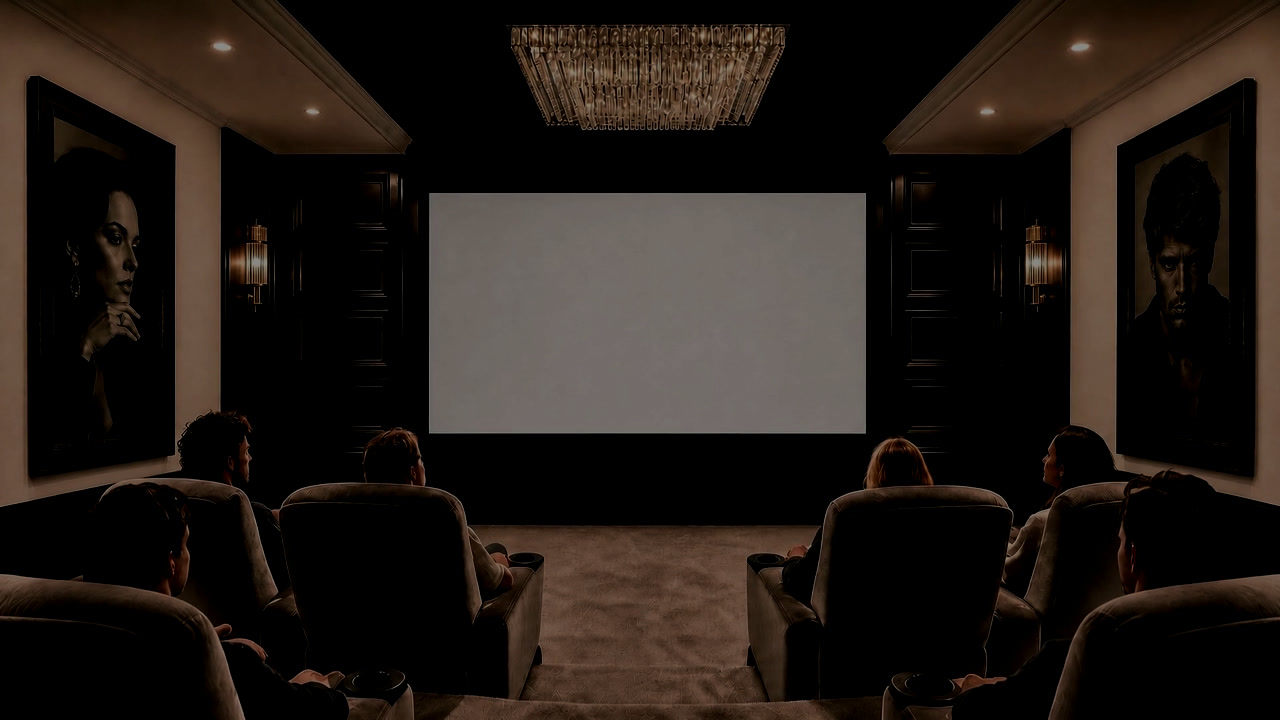
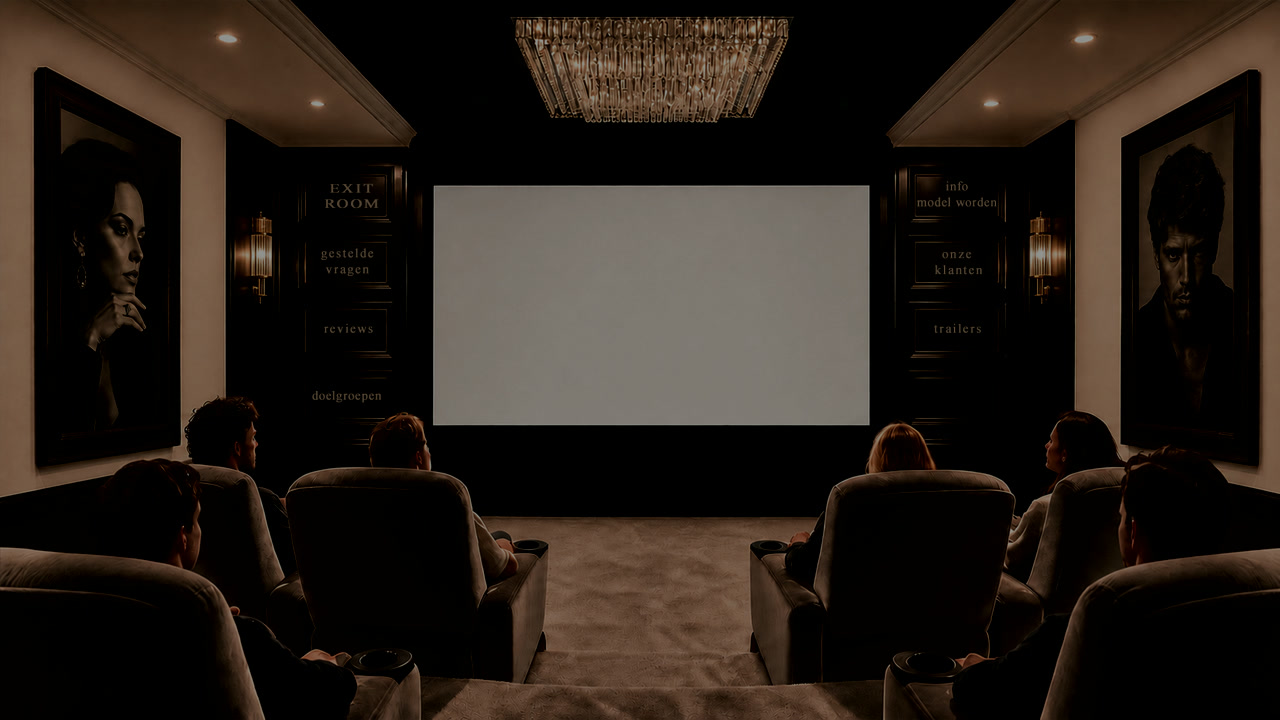
Infozaal: eigen afbeelding (bio.jpg) met de menuteksten erin; klikvlakken exact op de teksttegels gelegd.
- bio.jpg als infozaal-beeld (licht aan) plus een gedimde versie voor tijdens de trailer.
- Menuteksten zitten nu in de afbeelding zelf; de HTML-teksten zijn weg en vervangen door onzichtbare klikvlakken op de tegels (links: exit, gestelde vragen, reviews, doelgroepen; rechts: info model worden, onze klanten, trailers).
- Bioscoopscherm-vlak op de nieuwe afbeelding herrekend; mediaversie opgehoogd zodat de browser de nieuwe beelden laadt.

diff --git a/apps/web/src/components/BeginLiftExperience.tsx b/apps/web/src/components/BeginLiftExperience.tsx
@@ -27,7 +27,7 @@ const SHEET_BASE = process.env.NEXT_PUBLIC_BASE_PATH?.trim() || '';
  * versie van de bestanden, zodat de browser nooit een oude versie uit de
  * cache toont.
  */
-const MEDIA_V = '?v=2026-07-23b';
+const MEDIA_V = '?v=2026-07-23c';
 /** Film 30 — de lift in het onthaal, met vier ronde knoppen links. */
 const VIDEO_INTRO = `${SHEET_BASE}/videos/intro-lift-v2.mp4${MEDIA_V}`;
 /** Film 31 — van de lift naar de hal van het gastenportaal (welkomstbord + deurbordjes). */
@@ -178,29 +178,29 @@ type InfoTopic =
   | 'trailers';
 
 /**
- * Menuteksten op de zijmuren van de infozaal. De nieuwe film 34 toont geen
- * bordjes meer op de muren; de teksten worden daarom zonder kader in de
- * donkere paneelvakken naast het scherm getekend, netjes gecentreerd.
- * Ten allen tijde klikbaar; de inhoud verschijnt op het grote scherm.
+ * Menuteksten op de zijmuren van de infozaal. De teksten zitten in de
+ * achtergrondafbeelding (bio.jpg) zelf; dit zijn alleen de onzichtbare
+ * klikvlakken die exact op de teksttegels liggen. Ten allen tijde klikbaar;
+ * de inhoud verschijnt op het grote scherm.
  */
 const INFO_SIGNS: (Hotspot & { action: InfoTopic | 'exit' })[] = [
-  // Linkermuur: paneelvak-kolom x 305-377; vakken y 158-222, 256-287, 320-356, 388-422.
-  { label: 'Exit room', x: 305, y: 158, w: 72, h: 64, action: 'exit' },
-  { label: 'Veel gestelde vragen', x: 305, y: 254, w: 72, h: 34, action: 'veelgestelde-vragen' },
-  { label: 'Doelgroepen', x: 305, y: 318, w: 72, h: 38, action: 'doelgroepen' },
-  { label: 'Info model worden', x: 305, y: 384, w: 72, h: 36, action: 'info-model-worden' },
-  // Rechtermuur: paneelvak-kolom x 916-992; zelfde vakhoogtes als links.
-  { label: 'Reviews', x: 916, y: 158, w: 76, h: 64, action: 'reviews' },
-  { label: 'Onze klanten', x: 916, y: 254, w: 76, h: 34, action: 'onze-klanten' },
-  { label: 'Trailers try-out modeshows', x: 916, y: 314, w: 76, h: 44, action: 'trailers' },
+  // Linkermuur, van boven naar onder: Exit room, Gestelde vragen, Reviews, Doelgroepen.
+  { label: 'Exit room', x: 300, y: 170, w: 100, h: 56, action: 'exit' },
+  { label: 'Veel gestelde vragen', x: 300, y: 238, w: 100, h: 48, action: 'veelgestelde-vragen' },
+  { label: 'Reviews', x: 300, y: 304, w: 100, h: 40, action: 'reviews' },
+  { label: 'Doelgroepen', x: 298, y: 376, w: 100, h: 42, action: 'doelgroepen' },
+  // Rechtermuur, van boven naar onder: Info model worden, Onze klanten, Trailers.
+  { label: 'Info model worden', x: 905, y: 170, w: 105, h: 60, action: 'info-model-worden' },
+  { label: 'Onze klanten', x: 915, y: 238, w: 95, h: 54, action: 'onze-klanten' },
+  { label: 'Trailers try-out modeshows', x: 915, y: 302, w: 95, h: 46, action: 'trailers' },
 ];
 
 /**
- * Het grote bioscoopdoek in de infozaal (1280x720-stelsel, gemeten op het
- * eindbeeld van de nieuwe film 34). Iets ruimer dan het doek zelf zodat de
- * trailer het scherm volledig vult.
+ * Het grote bioscoopdoek in de infozaal (1280x720-stelsel, gemeten op
+ * bio.jpg). Iets ruimer dan het doek zelf zodat de trailer het scherm
+ * volledig vult.
  */
-const INFO_SCREEN = { x: 428, y: 190, w: 442, h: 244 };
+const INFO_SCREEN = { x: 430, y: 184, w: 442, h: 244 };
 /** 2x supersampling: content groot renderen en terugschalen → scherpe tekst op het doek. */
 const INFO_SCREEN_SS = 2;
 
@@ -1189,8 +1189,8 @@ export function BeginLiftExperience() {
           </div>
         ) : null}
 
-        {/* Menuteksten op de zijmuren van de infozaal — zonder kader, netjes
-            gecentreerd in de donkere paneelvakken naast het scherm. */}
+        {/* Menuteksten op de zijmuren van de infozaal — de teksten zitten in de
+            achtergrondafbeelding; dit zijn de onzichtbare klikvlakken erop. */}
         {phase === 'infoDim' || phase === 'info'
           ? INFO_SIGNS.map((s) => (
               <button
@@ -1199,27 +1199,9 @@ export function BeginLiftExperience() {
                 aria-label={s.label}
                 title={s.label}
                 onClick={() => onInfoSign(s.action)}
-                className={`${hotspotClass} flex items-center justify-center text-center`}
-                style={{
-                  left: s.x,
-                  top: s.y,
-                  width: s.w,
-                  height: s.h,
-                  zIndex: 10,
-                  color: '#e9c780',
-                  fontFamily: 'Georgia, "Times New Roman", serif',
-                  fontSize: 11,
-                  fontWeight: 600,
-                  lineHeight: 1.25,
-                  letterSpacing: '0.02em',
-                  textShadow: '0 1px 3px rgba(0,0,0,0.9)',
-                  padding: 0,
-                  opacity: phase === 'info' ? 1 : 0.45,
-                  transition: 'opacity 900ms ease-in-out',
-                }}
-              >
-                {s.label}
-              </button>
+                className={hotspotClass}
+                style={{ left: s.x, top: s.y, width: s.w, height: s.h, zIndex: 10 }}
+              />
             ))
           : null}
 
